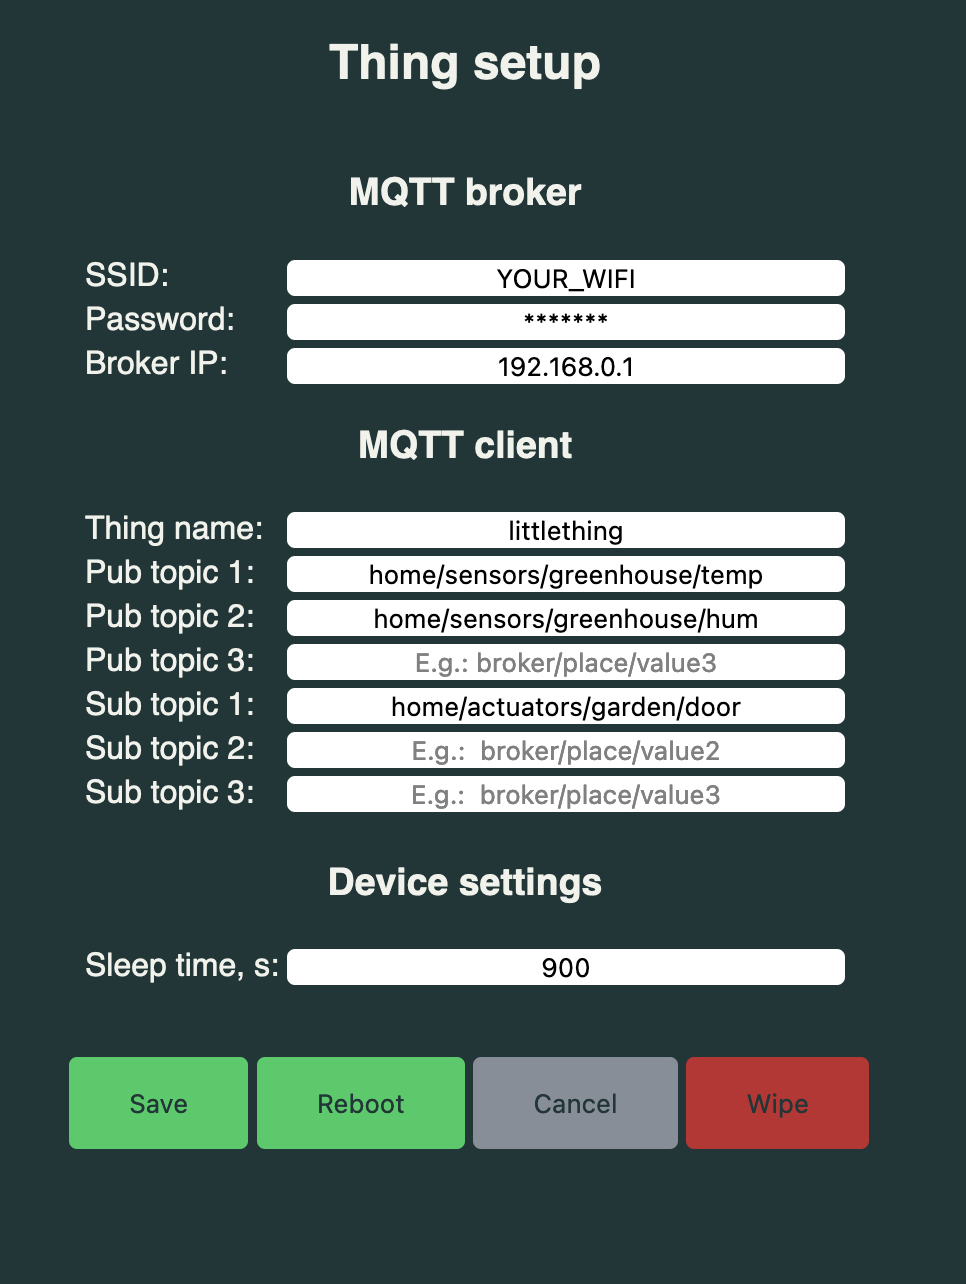
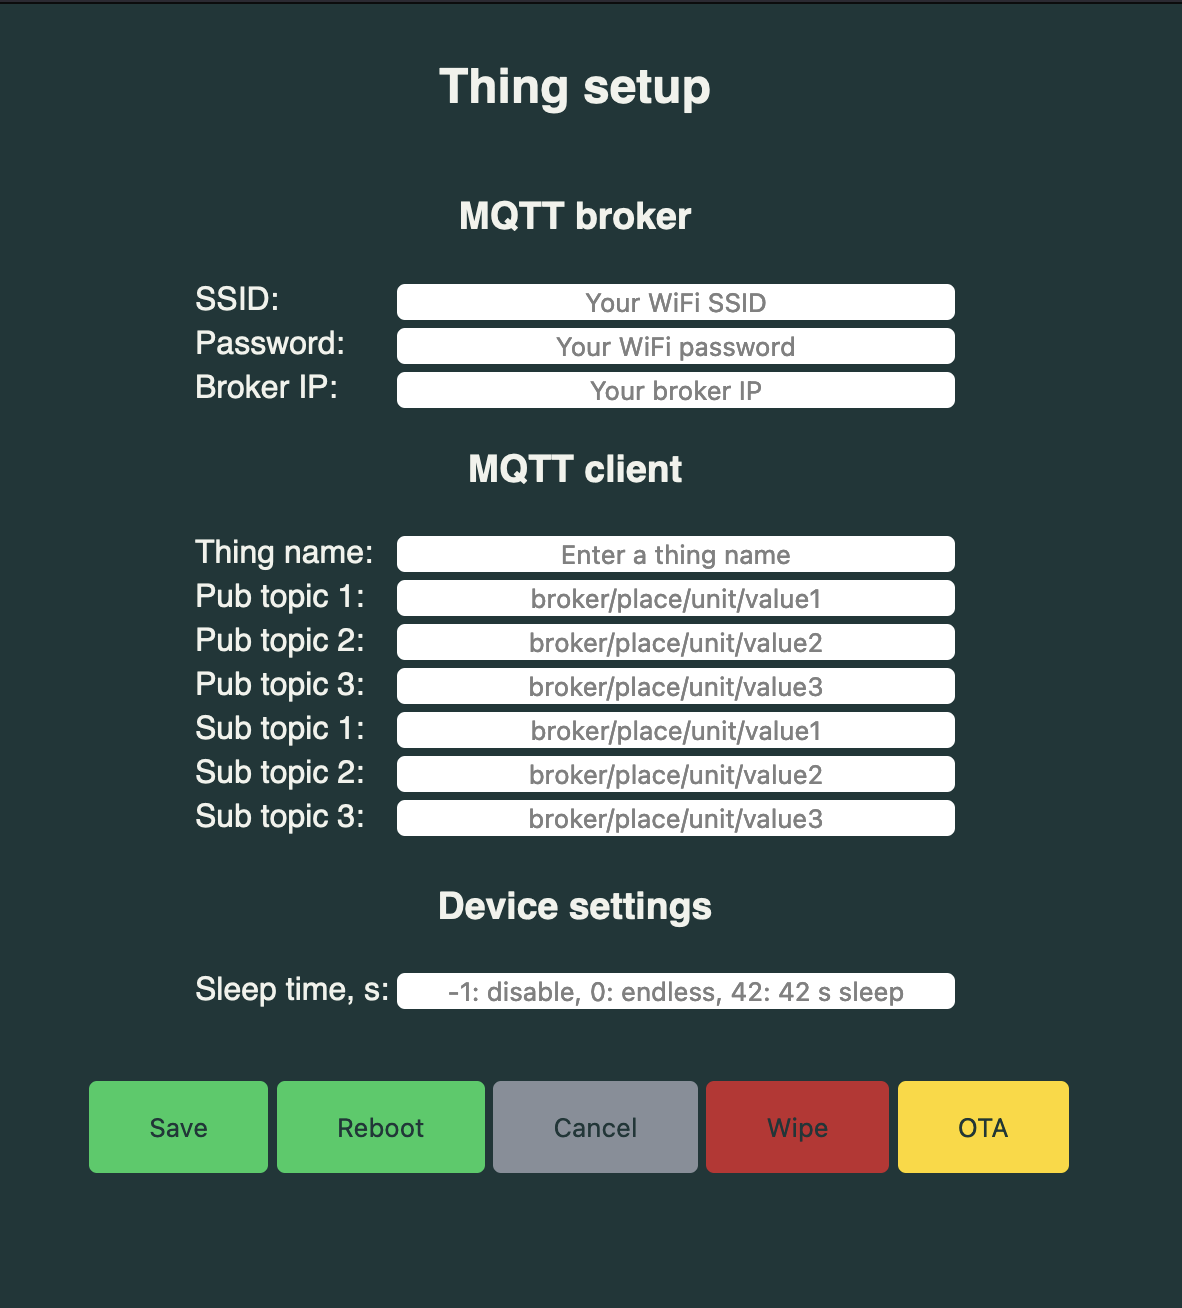
OTA added

Changed region(s): [[0.0932, 0.1246, 0.9006, 0.7788], [0.0621, 0.81, 0.9317, 0.9034], [0.3416, 0.0312, 0.6211, 0.0935]]

diff --git a/src/index_html.h b/src/index_html.h
@@ -8,6 +8,7 @@ Set 1:
             --FIRE_ENGINE_RED:      #c1292e;
             --ALABASTER_WHITE:      #f1f2eb;
             --ROMAN_SILVER:         #878e99;
+            --GOLD:                 #ffd700;
 Set 2:
             --RUSSIAN_VIOLETT:      #241E4E;
             --GREEN_COLOR:          #399E5A;
@@ -32,6 +33,7 @@ const char INDEX_HTML[] PROGMEM = R"rawliteral(
             --FIRE_ENGINE_RED: #c1292e;
             --ALABASTER_WHITE: #f1f2eb;
             --ROMAN_SILVER: #878e99;
+            --GOLD:         #ffd700;
         }
 
         body {
@@ -69,6 +71,11 @@ const char INDEX_HTML[] PROGMEM = R"rawliteral(
 
         .red {
             background-color: var(--FIRE_ENGINE_RED);
+            color: var(--OUTER_SPACE_CRAYOLA);
+        }
+        
+        .gold {
+            background-color: var(--GOLD);
             color: var(--OUTER_SPACE_CRAYOLA);
         }
 
@@ -206,6 +213,7 @@ const char INDEX_HTML[] PROGMEM = R"rawliteral(
     <form id="Form1" onsubmit="return confirm('Restart the ESP by pressing the reboot button for your changes to take effect!');" action='actionUpdateData' method='post' target="hidden-form"></form>
     <form id="Form2" onsubmit="return confirm('Are you sure? All saved files would be deleted.');" action='actionWipeData' method='post' target="hidden-form"></form>
     <form id="Form3" onsubmit="return confirm('Connection will be lost during reboot.');" action='actionRebootESP' method='post' target="hidden-form"></form>
+    <form id="Form4" action='actionOTA' method='post' target="hidden-form"></form>
     <input form="Form1" type="hidden" id="radio_state" value=%location_method%>
     <table class="table">
         <tr>
@@ -307,6 +315,7 @@ const char INDEX_HTML[] PROGMEM = R"rawliteral(
         <input type="submit" form="Form3" class="button green" formaction="/actionRebootESP" value="Reboot" id="reboot_button" name="reboot_button" />
         <input type="reset" form="Form1" class="button blue" value="Cancel" />
         <input type="submit" form="Form2" class="button red" formaction="/actionWipeData" value="Wipe" id="wipe_button" name="wipe_button" />
+        <input type="submit" form="Form4" class="button gold" formaction="/actionOTA" value="OTA" id="ota_button" name="ota_button" />
     </div>
 </body>
 

diff --git a/src/ThingManager.cpp b/src/ThingManager.cpp
@@ -177,7 +177,7 @@ bool ThingManager::setupWiFi(AsyncWebServer* server)
     success = setupAPMode(deviceName.c_str(), AP_PASSWORD);
     delay(500);
     setServerCallbacks(server); 
-    AsyncElegantOTA.begin(server);  // Start ElegantOTA
+    // AsyncElegantOTA.begin(server);  // Start ElegantOTA
     server->begin();  // Start WebInterface + OTA (http://LOCAL_IP/update)
     delay(500);
   } 
@@ -257,6 +257,7 @@ void ThingManager::setServerCallbacks(AsyncWebServer *server)
   server->on("/actionUpdateData", HTTP_POST, actionUpdateData);
   server->on("/actionWipeData", HTTP_POST, actionWipeData);
   server->on("/actionRebootESP", HTTP_POST, actionRebootESP);
+  server->on("/actionOTA", HTTP_POST, actionOTA);
 
   server->onNotFound(notFound);
   // server->begin();
@@ -274,6 +275,14 @@ void ThingManager::actionRebootESP(AsyncWebServerRequest *request)
   writeFile(LittleFS, getPath(PARAM_WIFI_MODE).c_str(), "WIFI_STA_MODE");
   delay(3000);
   ESP.restart();
+}
+
+void ThingManager::actionOTA(AsyncWebServerRequest *request) 
+{
+  DBG.println("ACTION actionOTA!");
+  request->redirect("/update");
+  // Todo: deactivate deep sleep
+  // writeFile(LittleFS, getPath(PARAM_WIFI_MODE).c_str(), "WIFI_STA_MODE");
 }
 
 void ThingManager::actionWipeData(AsyncWebServerRequest *request) 

diff --git a/src/ThingManager.h b/src/ThingManager.h
@@ -20,6 +20,10 @@
 #define THING_MANAGER_H
 
 #include <Arduino.h>
+#include <LittleFS.h> 
+#include <FS.h>
+#include <Button2.h>
+
 
 #if defined(ESP8266)
   #include <ESP8266WiFi.h>
@@ -31,20 +35,13 @@
   #include <AsyncTCP.h>
   #include <ESPmDNS.h>
 #endif
-#include <ESPAsyncWebServer.h>
-#include <AsyncElegantOTA.h>
-#include <ThingManagerConfig.h>
-#include <LittleFS.h> 
-#include <FS.h>
-#include <Button2.h>
+
 #include <index_html.h>
 #include <error_html.h>
 #include <reboot_html.h>
-
-
-
-
-
+#include <ESPAsyncWebServer.h>
+#include <AsyncElegantOTA.h>
+#include <ThingManagerConfig.h>
 
 namespace ThingManager 
 {
@@ -183,6 +180,13 @@ namespace ThingManager
    */
   void actionUpdateData(AsyncWebServerRequest *request);
 
+  /**
+   * @brief Action to handle Over-The-Air-Update
+   * 
+   * @param request Request
+   */
+  void actionOTA(AsyncWebServerRequest *request);
+
   //===============================================================================
   // LittleFS
   /**
@@ -234,7 +238,7 @@ namespace ThingManager
 /**
  * @brief Get the unique Device Name 
  * 
- * @param prefix Device name e. g. rtkrover
+ * @param prefix Device name e. g. thing
  * @return String Name + ID
  */
 String getDeviceName(const String &prefix);
